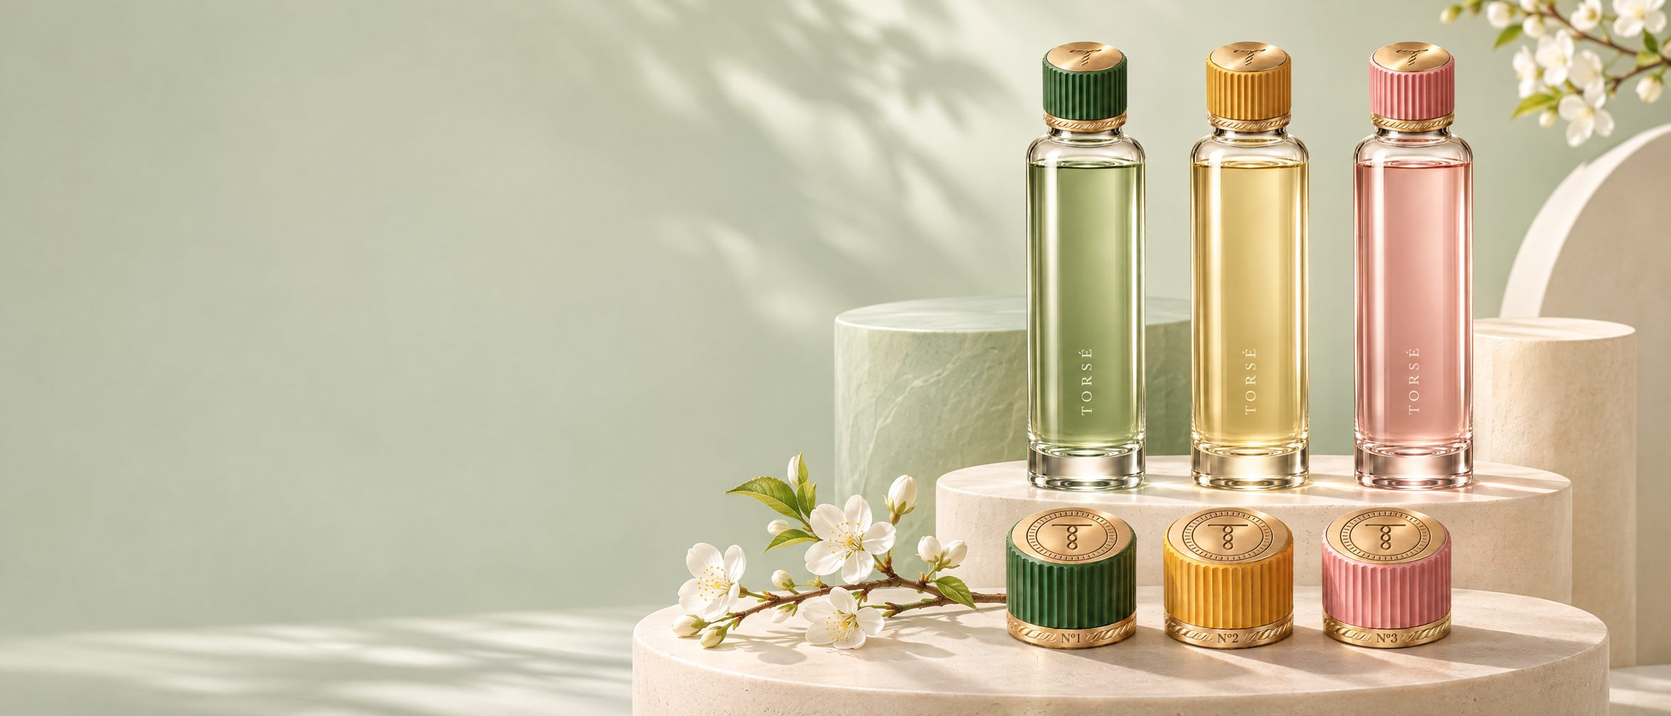
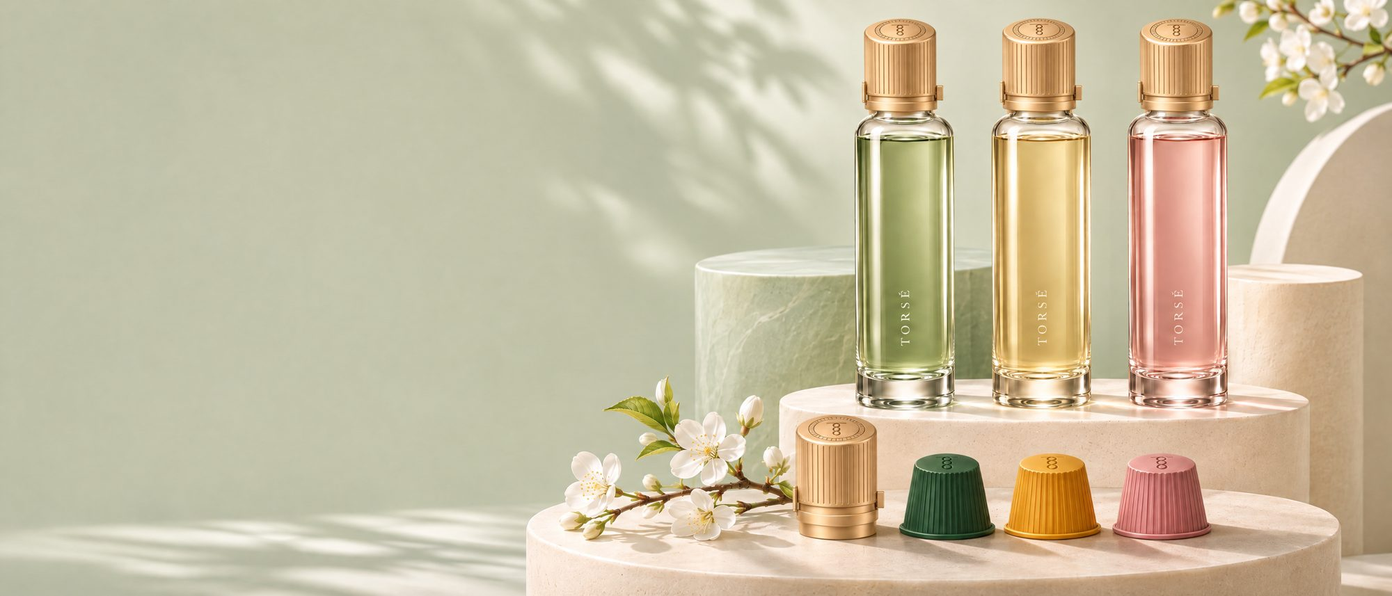
Shop auf System v5 umstellen: goldene Krone und Kapseln
Sortiment jetzt: Kapseln Standard und Large je Sorte, Krone, Set aus
Krone und Flasche, Schraubverschluss. Carrousel, Travel Clip, Flasche
einzeln und Starter Set entfernt. Neue Produkt- und Kampagnenbilder.

Claude-Session: https://claude.ai/code/session_01NizjhzH8RztRbZnBNBkn2N

diff --git a/index.html b/index.html
@@ -3,11 +3,11 @@
 <head>
 <meta charset="utf-8">
 <meta name="viewport" content="width=device-width, initial-scale=1, viewport-fit=cover">
-<meta name="description" content="TORSÉ – Kapseln mit Ceremonial-Matcha, Yuzu und Sakura für stilles Wasser. Ein Dreh. Ein Ritual.">
+<meta name="description" content="TORSÉ – goldene Krone und Kapseln mit Ceremonial-Matcha, Yuzu und Sakura für stilles Wasser. Ein Dreh. Ein Ritual.">
 <meta name="theme-color" content="#ffffff">
 <link rel="icon" href="/favicon.svg" type="image/svg+xml">
 <meta property="og:title" content="TORSÉ Boutique">
-<meta property="og:description" content="Ein Dreh. Ein Ritual. Kapseln für stilles Wasser.">
+<meta property="og:description" content="Ein Dreh. Ein Ritual. Krone und Kapseln für stilles Wasser.">
 <meta property="og:image" content="/images/hero.jpg">
 <title>TORSÉ Boutique</title>
 <link rel="preconnect" href="https://fonts.googleapis.com">
@@ -321,6 +321,7 @@ footer.site { background: var(--soft); padding-block: 64px 32px; font-size: 14px
 </style>
 </head>
 <body>
+
 <div class="demo gut">Vorschau · Demo-Shop, es werden keine echten Bestellungen ausgelöst</div>
 
 <header class="site gut">
@@ -330,7 +331,7 @@ footer.site { background: var(--soft); padding-block: 64px 32px; font-size: 14px
       <nav class="nav" aria-label="Hauptnavigation">
         <a href="#shop" data-nav="shop">Kollektion</a>
         <a href="#ritual" data-nav="ritual">Das Ritual</a>
-        <a href="#flasche" data-nav="flasche">Flasche &amp; Starter Set</a>
+        <a href="#flasche" data-nav="flasche">Krone &amp; Set</a>
         <a href="#club" data-nav="club">Club</a>
       </nav>
       <div class="hright">
@@ -341,7 +342,7 @@ footer.site { background: var(--soft); padding-block: 64px 32px; font-size: 14px
       </div>
     </div>
     <nav class="mnav" id="mnav" hidden aria-label="Mobile Navigation">
-      <a href="#shop">Kollektion</a><a href="#ritual">Das Ritual</a><a href="#flasche">Flasche &amp; Starter Set</a><a href="#club">Club</a>
+      <a href="#shop">Kollektion</a><a href="#ritual">Das Ritual</a><a href="#flasche">Krone &amp; Set</a><a href="#club">Club</a>
     </nav>
   </div>
 </header>
@@ -350,12 +351,12 @@ footer.site { background: var(--soft); padding-block: 64px 32px; font-size: 14px
 <section class="view" data-view="home">
   <div class="hero">
     <div class="hero-banner">
-      <img src="/images/hero.jpg" alt="Drei TORSÉ-Flaschen und drei Kapseln auf hellen Sockeln in Salbeigrün">
+      <img src="/images/hero.jpg" alt="Drei TORSÉ-Flaschen mit goldenen Kronen und Kapseln auf hellen Sockeln in Salbeigrün">
       <div class="hero-copy">
         <span class="label">Neu · Für stilles Wasser</span>
         <h1>Ein Dreh.<br><em>Ein Ritual.</em></h1>
-        <p>Ceremonial-Matcha, Yuzu oder Sakura in einer Kapsel aus Gold. Aufschrauben, drehen, schütteln, auf jeder Flasche stilles Wasser von 0,33 bis 0,5 l.</p>
-        <div class="ctas"><a class="btn dark" href="#shop">Kollektion entdecken</a><button class="btn line" data-open="starter">Starter Set · 39 €</button></div>
+        <p>Ceremonial-Matcha, Yuzu oder Sakura in farbigen Kapseln, dazu die goldene Krone für jede Flasche stilles Wasser von 0,33 bis 0,5 l. Einlegen, aufschrauben, drücken, schütteln.</p>
+        <div class="ctas"><a class="btn dark" href="#shop">Kollektion entdecken</a><button class="btn line" data-open="set">Krone &amp; Flasche · 89 €</button></div>
       </div>
     </div>
   </div>
@@ -363,9 +364,9 @@ footer.site { background: var(--soft); padding-block: 64px 32px; font-size: 14px
   <div class="sec gut">
     <div class="wrap">
       <div class="tiles">
-        <button class="tile t-sage" data-cat-go="kapseln"><span class="tl">Kapseln<small>Standard und Large</small></span><img src="/images/kapseln-trio.webp" alt=""></button>
-        <button class="tile t-ivory" data-cat-go="flasche"><span class="tl">Flasche &amp; Starter Set<small>500 ml Kristallglas</small></span><img src="/images/starter-set.webp" alt=""></button>
-        <button class="tile t-blush" data-cat-go="zubehoer"><span class="tl">Zubehör<small>Carrousel und Travel Clip</small></span><img src="/images/carrousel.webp" alt=""></button>
+        <button class="tile t-sage" data-cat-go="kapseln"><span class="tl">Kapseln<small>Standard und Large</small></span><img src="/images/kapseln-krone.webp" alt=""></button>
+        <button class="tile t-ivory" data-cat-go="krone"><span class="tl">Die Krone<small>Klappverschluss in Gold</small></span><img src="/images/krone.webp" alt=""></button>
+        <button class="tile t-blush" data-open="set"><span class="tl">Krone &amp; Flasche<small>Set in der Onyx-Box</small></span><img src="/images/set-krone-flasche.webp" alt=""></button>
       </div>
     </div>
   </div>
@@ -379,9 +380,9 @@ footer.site { background: var(--soft); padding-block: 64px 32px; font-size: 14px
 
   <div class="sec soft gut">
     <div class="wrap flavors">
-      <div class="fpanel"><img src="/images/kapseln-trio.webp" alt="Die drei TORSÉ-Kapseln in Jade, Yuzu-Gold und Sakura-Rosé"></div>
+      <div class="fpanel"><img src="/images/kapseln-krone.webp" alt="Die drei TORSÉ-Kapseln in Jade, Yuzu und Sakura neben der goldenen Krone"></div>
       <div>
-        <div class="sec-head"><span class="label">Die Kollektion</span><h2>Drei Sorten, drei Farben</h2><p>Jede Sorte hat ihre Farbe. Die Intensität steht auf jeder Kapsel.</p></div>
+        <div class="sec-head"><span class="label">Die Kollektion</span><h2>Drei Sorten, drei Farben</h2><p>Jede Sorte hat ihre Farbe, die ganze Kapsel ist darin bedruckt. Die Intensität steht auf jeder Box.</p></div>
         <div class="flist">
           <button class="fl" data-shopflavor="matcha"><span class="dot" style="background:var(--jade)"></span><span><span class="no">N°1 · Intensität 8</span><h3>Uji Matcha</h3><p>Ceremonial Grade aus Kyoto. Umami und frisches Gras.</p></span><span class="arrow">→</span></button>
           <button class="fl" data-shopflavor="yuzu"><span class="dot" style="background:var(--yuzu)"></span><span><span class="no">N°2 · Intensität 5</span><h3>Yuzu &amp; Ingwer</h3><p>Japanische Yuzu, ein Hauch Ingwer, ohne Zucker.</p></span><span class="arrow">→</span></button>
@@ -393,29 +394,29 @@ footer.site { background: var(--soft); padding-block: 64px 32px; font-size: 14px
 
   <div class="sec gut">
     <div class="wrap ritual">
-      <img src="/images/ritual-kaffeehaus.jpg" alt="Eine Hand dreht die TORSÉ-Kapsel auf der TORSÉ-Flasche im Wiener Kaffeehaus">
+      <img src="/images/ritual-kaffeehaus.jpg" alt="Eine Hand drückt die goldene TORSÉ-Krone auf einer Flasche Wasser im Wiener Kaffeehaus">
       <div>
         <div class="sec-head"><span class="label">Das Ritual</span><h2>Vier Bewegungen, zehn Sekunden</h2></div>
         <div class="steps">
-          <div class="step"><span class="k">I</span><b>Abziehen</b><span>Die goldene Schutzfolie abziehen.</span></div>
-          <div class="step"><span class="k">II</span><b>Aufschrauben</b><span>Auf jede Flasche stilles Wasser, 0,33 bis 0,5 l.</span></div>
-          <div class="step"><span class="k">III</span><b>Drehen</b><span>Eine Vierteldrehung öffnet das Siegel.</span></div>
+          <div class="step"><span class="k">I</span><b>Einlegen</b><span>Krone aufklappen, Kapsel mit der Folie nach oben einlegen.</span></div>
+          <div class="step"><span class="k">II</span><b>Zuklappen</b><span>Die Haube klickt ein. Dann auf jede Flasche stilles Wasser schrauben, 0,33 bis 0,5 l.</span></div>
+          <div class="step"><span class="k">III</span><b>Drücken</b><span>Mit der Handfläche auf die Krone drücken. Das Pulver fällt ins Wasser.</span></div>
           <div class="step"><span class="k">IV</span><b>Schütteln</b><span>Zehn Sekunden schütteln und genießen.</span></div>
         </div>
-        <p class="water">Nur für stilles Wasser. In Sprudel schäumt die Füllung beim Schütteln auf.</p>
+        <p class="water">Nur für stilles Wasser. In Sprudel schäumt die Füllung beim Schütteln auf. Bei offener Haube sind die Öffner gesperrt und verdeckt.</p>
       </div>
     </div>
   </div>
 
   <div class="sec gut" style="padding-top:0">
     <div class="wrap bottle-sec">
-      <div class="bpanel"><img src="/images/flasche.webp" alt="Die TORSÉ-Flasche, freigestellt"></div>
+      <div class="bpanel"><img src="/images/krone.webp" alt="Die goldene TORSÉ-Krone in der Onyx-Box, freigestellt"></div>
       <div class="bottle-copy">
-        <span class="label">Die Flasche</span>
-        <h2>Eine Säule aus Kristallglas</h2>
-        <p class="muted" style="font-size:16.5px;max-width:52ch">Schlank, gerade und schwer, wie das Mineralwasser eines Grandhotels. Der dicke Boden bricht das Licht, der Schriftzug ist eingeätzt. Jede TORSÉ-Kapsel passt darauf.</p>
-        <div class="facts"><div><b>500 ml</b><span>Inhalt</span></div><div><b>23 cm</b><span>Höhe</span></div><div><b>26/22</b><span>Gewinde</span></div></div>
-        <div class="ctas"><button class="btn dark" data-open="flasche">Flasche · 29 €</button><button class="btn line" data-open="starter">Starter Set · 39 €</button></div>
+        <span class="label">Die Krone</span>
+        <h2>Ein Verschluss aus Gold</h2>
+        <p class="muted" style="font-size:16.5px;max-width:52ch">Einmal kaufen, jahrelang benutzen. Die Krone ist aus Aluminium in Champagner-Gold, nur graviert, und passt auf jede Flasche stilles Wasser von 0,33 bis 0,5 l. Die Kapseln kaufen Sie nach.</p>
+        <div class="facts"><div><b>Ø 44 mm</b><span>Durchmesser</span></div><div><b>4,5 mm</b><span>Hub beim Drücken</span></div><div><b>26/22</b><span>Gewinde</span></div></div>
+        <div class="ctas"><button class="btn dark" data-open="krone">Krone · 69 €</button><button class="btn line" data-open="set">Mit Flasche · 89 €</button></div>
       </div>
     </div>
   </div>
@@ -426,7 +427,7 @@ footer.site { background: var(--soft); padding-block: 64px 32px; font-size: 14px
       <div class="cc">
         <span class="label">Club TORSÉ</span>
         <h2>Ihre Sorte, jeden Monat</h2>
-        <ul><li>Large-Box mit 30 Kapseln, 1,80 € pro Kapsel</li><li>Saison-Editionen vor allen anderen</li><li>Versandkostenfrei, jederzeit pausieren</li></ul>
+        <ul><li>Large-Box mit 30 Kapseln, 1,80 € pro Kapsel</li><li>Die Krone für 29 € zum Start</li><li>Versandkostenfrei, jederzeit pausieren</li></ul>
         <div class="ctas"><button class="btn dark" data-open="large-matcha">Large im Abo</button><a class="btn line" href="#club">Mehr erfahren</a></div>
       </div>
     </div>
@@ -436,7 +437,7 @@ footer.site { background: var(--soft); padding-block: 64px 32px; font-size: 14px
     <div class="wrap usps">
       <div class="usp"><b>Versandkostenfrei ab 49 €</b><span>Lieferung in 2 bis 3 Werktagen aus Wien</span></div>
       <div class="usp"><b>Passt auf 0,33–0,5 l</b><span>Stilles Wasser mit 26/22-Hals</span></div>
-      <div class="usp"><b>Hülsen zurückgeben</b><span>Club-Punkte für jede Aluminiumhülse</span></div>
+      <div class="usp"><b>Reines Aluminium</b><span>Leere Kapseln in die Metallsammlung</span></div>
       <div class="usp"><b>Sicher bezahlen</b><span>Karte, eps, PayPal, Apple Pay</span></div>
     </div>
   </div>
@@ -444,13 +445,12 @@ footer.site { background: var(--soft); padding-block: 64px 32px; font-size: 14px
 
 <section class="view gut" data-view="shop" hidden>
   <div class="wrap">
-    <div class="shop-head"><h1>Die Kollektion</h1><p class="muted" style="font-size:16.5px;max-width:62ch">Kapseln in jeder Sorte, die TORSÉ-Flasche und Zubehör. Alle Kapseln sind für stilles Wasser in Flaschen von 0,33 bis 0,5 l.</p></div>
+    <div class="shop-head"><h1>Die Kollektion</h1><p class="muted" style="font-size:16.5px;max-width:62ch">Kapseln in jeder Sorte, die goldene Krone und das Set mit der TORSÉ-Flasche. Die Kapseln legt man in die Krone, sie passt auf stilles Wasser in Flaschen von 0,33 bis 0,5 l.</p></div>
     <div class="filters" role="group" aria-label="Filter">
       <div class="grp" id="catChips">
         <button class="chip on" data-cat="all">Alle</button>
         <button class="chip" data-cat="kapseln">Kapseln</button>
-        <button class="chip" data-cat="flasche">Flasche &amp; Set</button>
-        <button class="chip" data-cat="zubehoer">Zubehör</button>
+        <button class="chip" data-cat="krone">Krone &amp; Set</button>
       </div>
       <span class="sep" aria-hidden="true"></span>
       <div class="grp" id="flavChips">
@@ -485,7 +485,7 @@ footer.site { background: var(--soft); padding-block: 64px 32px; font-size: 14px
         <div class="perks"><span>Versandkostenfrei ab 49 €</span><span>Lieferung in 2 bis 3 Werktagen</span><span>Für stilles Wasser, 0,33–0,5 l</span><span>30 Tage Rückgabe</span></div>
         <div>
           <details class="acc" open><summary>Details</summary><dl id="pDetails"></dl></details>
-          <details class="acc"><summary>Für welche Flaschen?</summary><p>Alle TORSÉ-Kapseln passen auf PET-Flaschen mit stillem Wasser von 0,33 bis 0,5 l mit dem verbreiteten 26/22-Hals, und auf die TORSÉ-Flasche. Nicht für Sprudel geeignet.</p></details>
+          <details class="acc"><summary>Für welche Flaschen?</summary><p>Die Kapseln kommen in die TORSÉ-Krone. Die Krone passt auf PET-Flaschen mit stillem Wasser von 0,33 bis 0,5 l mit dem verbreiteten 26/22-Hals und auf die TORSÉ-Flasche. Nicht für Sprudel geeignet.</p></details>
           <details class="acc"><summary>Versand &amp; Rückgabe</summary><p>Versand aus Wien innerhalb Österreichs und der EU. Ungeöffnete Ware kann 30 Tage lang zurückgegeben werden.</p></details>
         </div>
       </div>
@@ -496,13 +496,13 @@ footer.site { background: var(--soft); padding-block: 64px 32px; font-size: 14px
 <section class="view" data-view="ritual" hidden>
   <div class="sec gut">
     <div class="wrap ritual">
-      <img src="/images/kapsel-aufbau.jpg" alt="Aufbau der TORSÉ-Kapsel" style="background:var(--soft)">
+      <img src="/images/krone-aufbau.jpg" alt="Aufbau der TORSÉ-Krone mit Kapsel" style="background:var(--soft)">
       <div>
-        <div class="sec-head"><span class="label">Das Ritual</span><h2>Was in der Kapsel steckt</h2><p>Ein Deckel aus gebürstetem Aluminium mit unserem Monogramm, eine eloxierte Hülse in der Sortenfarbe und darunter eine luftdichte Kammer. Darin bleibt die Füllung frisch, bis Sie drehen.</p></div>
+        <div class="sec-head"><span class="label">Das Ritual</span><h2>Was in der Krone steckt</h2><p>Haube und Unterteil aus Aluminium in Champagner-Gold, nur graviert. Innen liegt ein Federdeckel über stumpfen Öffnern, gesperrt, solange die Haube offen ist. Die Kapsel aus reinem Aluminium bleibt luftdicht, bis Sie drücken.</p></div>
         <div class="steps">
-          <div class="step"><span class="k">I</span><b>Abziehen</b><span>Die goldene Schutzfolie abziehen.</span></div>
-          <div class="step"><span class="k">II</span><b>Aufschrauben</b><span>Auf jede Flasche stilles Wasser, 0,33 bis 0,5 l.</span></div>
-          <div class="step"><span class="k">III</span><b>Drehen</b><span>Der Schneidstern öffnet das Siegel.</span></div>
+          <div class="step"><span class="k">I</span><b>Einlegen</b><span>Krone aufklappen, Kapsel mit der Folie nach oben einlegen.</span></div>
+          <div class="step"><span class="k">II</span><b>Zuklappen</b><span>Die Haube klickt ein. Dann auf jede Flasche stilles Wasser schrauben, 0,33 bis 0,5 l.</span></div>
+          <div class="step"><span class="k">III</span><b>Drücken</b><span>Mit der Handfläche auf die Krone drücken. Das Pulver fällt ins Wasser.</span></div>
           <div class="step"><span class="k">IV</span><b>Schütteln</b><span>Zehn Sekunden schütteln und genießen.</span></div>
         </div>
         <div class="ctas" style="margin-top:28px"><a class="btn dark" href="#shop">Zur Kollektion</a></div>
@@ -511,8 +511,8 @@ footer.site { background: var(--soft); padding-block: 64px 32px; font-size: 14px
   </div>
   <div class="sec soft gut">
     <div class="wrap ritual">
-      <div class="sec-head" style="margin:0"><span class="label">Im Kaffeehaus, im Büro, unterwegs</span><h2>Überall, wo es stilles Wasser gibt</h2><p>Die Kapsel passt auf die TORSÉ-Flasche und auf die üblichen 0,33- und 0,5-l-Flaschen mit stillem Wasser. Mit dem Travel Clip haben Sie drei Kapseln immer dabei.</p><div class="ctas" style="margin-top:12px"><button class="btn dark" data-open="travel-clip">Travel Clip · 39 €</button></div></div>
-      <img src="/images/kollektion-flaschen.jpg" alt="Drei TORSÉ-Flaschen mit Wasser in Jade, Gold und Rosé" style="aspect-ratio:16/10">
+      <div class="sec-head" style="margin:0"><span class="label">Im Kaffeehaus, im Büro, unterwegs</span><h2>Überall, wo es stilles Wasser gibt</h2><p>Die Krone passt auf die TORSÉ-Flasche und auf die üblichen 0,33- und 0,5-l-Flaschen mit stillem Wasser. Krone und ein paar Kapseln passen in jede Tasche.</p><div class="ctas" style="margin-top:12px"><button class="btn dark" data-open="krone">Krone · 69 €</button></div></div>
+      <img src="/images/kollektion-flaschen.jpg" alt="Drei TORSÉ-Flaschen mit goldenen Kronen, Wasser in Jade, Gold und Rosé" style="aspect-ratio:16/10">
     </div>
   </div>
 </section>
@@ -520,25 +520,25 @@ footer.site { background: var(--soft); padding-block: 64px 32px; font-size: 14px
 <section class="view" data-view="flasche" hidden>
   <div class="sec gut">
     <div class="wrap bottle-sec">
-      <div class="bpanel"><img src="/images/flasche.webp" alt="Die TORSÉ-Flasche"></div>
+      <div class="bpanel"><img src="/images/krone.webp" alt="Die goldene TORSÉ-Krone"></div>
       <div class="bottle-copy">
-        <span class="label">Die Flasche</span>
-        <h1 style="font-size:clamp(36px,4.6vw,58px);line-height:1.04">Eine Säule aus Kristallglas</h1>
-        <p class="muted" style="font-size:16.5px;max-width:52ch">Schlank, gerade und schwer. Der dicke Boden bricht das Licht, der Schriftzug ist senkrecht eingeätzt, am Boden sitzt das Monogramm.</p>
-        <div class="facts"><div><b>500 ml</b><span>Inhalt</span></div><div><b>23 × 6,5</b><span>cm, H × Ø</span></div><div><b>26/22</b><span>passt zu jeder Kapsel</span></div></div>
-        <div class="ctas"><button class="btn dark" data-open="flasche">Flasche · 29 €</button></div>
+        <span class="label">Die Krone</span>
+        <h1 style="font-size:clamp(36px,4.6vw,58px);line-height:1.04">Der goldene Klappverschluss</h1>
+        <p class="muted" style="font-size:16.5px;max-width:52ch">Aufklappen, Kapsel einlegen, zuklappen, aufschrauben, drücken. Die Haube ist der Knopf, ein poliertes Band zeigt, ob die Kapsel schon geöffnet ist. Bei offener Haube sind die Öffner gesperrt.</p>
+        <div class="facts"><div><b>Ø 44 mm</b><span>Durchmesser</span></div><div><b>58,8 mm</b><span>Höhe</span></div><div><b>26/22</b><span>Gewinde</span></div></div>
+        <div class="ctas"><button class="btn dark" data-open="krone">Krone · 69 €</button><button class="btn line" data-open="verschluss">Schraubverschluss · 19 €</button></div>
       </div>
     </div>
   </div>
   <div class="sec soft gut">
     <div class="wrap bottle-sec" style="grid-template-columns:minmax(0,1.1fr) minmax(0,0.9fr)">
       <div class="bottle-copy">
-        <span class="label">Starter Set</span>
-        <h2>Flasche und neun Kapseln</h2>
-        <p class="muted" style="font-size:16.5px;max-width:52ch">Die TORSÉ-Flasche mit je drei Kapseln jeder Sorte, in der Onyx-Box. Der schönste Einstieg und ein Geschenk, das man nicht vergisst.</p>
-        <div class="ctas"><button class="btn dark" data-open="starter">Starter Set · 39 €</button></div>
+        <span class="label">Set</span>
+        <h2>Krone und Flasche</h2>
+        <p class="muted" style="font-size:16.5px;max-width:52ch">Die goldene Krone und die TORSÉ-Flasche, eine schlanke Säule aus dickem Glas mit eingeätztem Schriftzug, in der Onyx-Box. Die Flasche gibt es nur in diesem Set.</p>
+        <div class="ctas"><button class="btn dark" data-open="set">Set · 89 €</button></div>
       </div>
-      <div class="bpanel" style="background:var(--white);aspect-ratio:4/3"><img src="/images/starter-set.webp" alt="Starter Set"></div>
+      <div class="bpanel" style="background:var(--white);aspect-ratio:4/3"><img src="/images/set-krone-flasche.webp" alt="Set aus Krone und Flasche"></div>
     </div>
   </div>
 </section>
@@ -551,7 +551,7 @@ footer.site { background: var(--soft); padding-block: 64px 32px; font-size: 14px
         <span class="label">Club TORSÉ</span>
         <h1 style="font-size:clamp(34px,4.4vw,54px);line-height:1.04">Ihre Sorte, jeden Monat</h1>
         <p class="muted" style="font-size:16.5px">Wählen Sie Ihre Sorte, wir schicken jeden Monat eine Large-Box mit 30 Kapseln. Sie können jederzeit wechseln, pausieren oder kündigen.</p>
-        <ul><li>1,80 € pro Kapsel statt 2,20 €</li><li>Saison-Editionen vor allen anderen</li><li>Versandkostenfrei</li><li>Hülsen zurückschicken und Punkte sammeln</li></ul>
+        <ul><li>1,80 € pro Kapsel statt 2,20 €</li><li>Die Krone für 29 € zum Start</li><li>Saison-Editionen vor allen anderen</li><li>Versandkostenfrei</li></ul>
         <div class="ctas"><button class="btn dark" data-open="large-matcha">Matcha</button><button class="btn line" data-open="large-yuzu">Yuzu</button><button class="btn line" data-open="large-sakura">Sakura</button></div>
       </div>
     </div>
@@ -608,11 +608,11 @@ footer.site { background: var(--soft); padding-block: 64px 32px; font-size: 14px
     <div class="fgrid">
       <div>
         <a class="brand" href="#home"><svg class="mono" viewBox="0 0 120 120" role="img" aria-label="TORSÉ Monogramm"><g fill="none" stroke="currentColor" stroke-linecap="round"><circle cx="60" cy="60" r="57.5" stroke-width="1"/><g stroke-width="0.8"><line x1="111.00" y1="60.00" x2="115.50" y2="60.00"/><line x1="110.56" y1="66.66" x2="115.03" y2="67.24"/><line x1="109.26" y1="73.20" x2="113.61" y2="74.36"/><line x1="107.12" y1="79.52" x2="111.28" y2="81.24"/><line x1="104.17" y1="85.50" x2="108.06" y2="87.75"/><line x1="100.46" y1="91.05" x2="104.03" y2="93.79"/><line x1="96.06" y1="96.06" x2="99.24" y2="99.24"/><line x1="91.05" y1="100.46" x2="93.79" y2="104.03"/><line x1="85.50" y1="104.17" x2="87.75" y2="108.06"/><line x1="79.52" y1="107.12" x2="81.24" y2="111.28"/><line x1="73.20" y1="109.26" x2="74.36" y2="113.61"/><line x1="66.66" y1="110.56" x2="67.24" y2="115.03"/><line x1="60.00" y1="111.00" x2="60.00" y2="115.50"/><line x1="53.34" y1="110.56" x2="52.76" y2="115.03"/><line x1="46.80" y1="109.26" x2="45.64" y2="113.61"/><line x1="40.48" y1="107.12" x2="38.76" y2="111.28"/><line x1="34.50" y1="104.17" x2="32.25" y2="108.06"/><line x1="28.95" y1="100.46" x2="26.21" y2="104.03"/><line x1="23.94" y1="96.06" x2="20.76" y2="99.24"/><line x1="19.54" y1="91.05" x2="15.97" y2="93.79"/><line x1="15.83" y1="85.50" x2="11.94" y2="87.75"/><line x1="12.88" y1="79.52" x2="8.72" y2="81.24"/><line x1="10.74" y1="73.20" x2="6.39" y2="74.36"/><line x1="9.44" y1="66.66" x2="4.97" y2="67.24"/><line x1="9.00" y1="60.00" x2="4.50" y2="60.00"/><line x1="9.44" y1="53.34" x2="4.97" y2="52.76"/><line x1="10.74" y1="46.80" x2="6.39" y2="45.64"/><line x1="12.88" y1="40.48" x2="8.72" y2="38.76"/><line x1="15.83" y1="34.50" x2="11.94" y2="32.25"/><line x1="19.54" y1="28.95" x2="15.97" y2="26.21"/><line x1="23.94" y1="23.94" x2="20.76" y2="20.76"/><line x1="28.95" y1="19.54" x2="26.21" y2="15.97"/><line x1="34.50" y1="15.83" x2="32.25" y2="11.94"/><line x1="40.48" y1="12.88" x2="38.76" y2="8.72"/><line x1="46.80" y1="10.74" x2="45.64" y2="6.39"/><line x1="53.34" y1="9.44" x2="52.76" y2="4.97"/><line x1="60.00" y1="9.00" x2="60.00" y2="4.50"/><line x1="66.66" y1="9.44" x2="67.24" y2="4.97"/><line x1="73.20" y1="10.74" x2="74.36" y2="6.39"/><line x1="79.52" y1="12.88" x2="81.24" y2="8.72"/><line x1="85.50" y1="15.83" x2="87.75" y2="11.94"/><line x1="91.05" y1="19.54" x2="93.79" y2="15.97"/><line x1="96.06" y1="23.94" x2="99.24" y2="20.76"/><line x1="100.46" y1="28.95" x2="104.03" y2="26.21"/><line x1="104.17" y1="34.50" x2="108.06" y2="32.25"/><line x1="107.12" y1="40.48" x2="111.28" y2="38.76"/><line x1="109.26" y1="46.80" x2="113.61" y2="45.64"/><line x1="110.56" y1="53.34" x2="115.03" y2="52.76"/></g><circle cx="60" cy="60" r="48.5" stroke-width="0.8"/><path d="M36 40 H84" stroke-width="3.2"/><path d="M60 40 C67 46 67 52 60 58 C53 64 53 70 60 76 C67 82 67 88 60 92" stroke-width="2.4"/><path d="M60 40 C53 46 53 52 60 58 C67 64 67 70 60 76 C53 82 53 88 60 92" stroke-width="2.4"/></g></svg><span>TORSÉ</span></a>
-        <p style="margin-top:12px">Rituel de l'eau. Kapseln für stilles Wasser, gestaltet in Wien.</p>
+        <p style="margin-top:12px">Rituel de l'eau. Krone und Kapseln für stilles Wasser, gestaltet in Wien.</p>
         <form class="news" id="newsForm"><label for="n-mail" style="position:absolute;left:-9999px">E-Mail für Newsletter</label><input id="n-mail" type="email" placeholder="E-Mail für Neuigkeiten"><button type="submit">Anmelden</button></form>
       </div>
-      <div><h4>Kollektion</h4><ul><li><button data-open="standard-matcha">N°1 Uji Matcha</button></li><li><button data-open="standard-yuzu">N°2 Yuzu</button></li><li><button data-open="standard-sakura">N°3 Sakura</button></li><li><button data-open="flasche">Die Flasche</button></li></ul></div>
-      <div><h4>Entdecken</h4><ul><li><a href="#ritual">Das Ritual</a></li><li><a href="#club">Club TORSÉ</a></li><li><a href="#flasche">Starter Set</a></li></ul></div>
+      <div><h4>Kollektion</h4><ul><li><button data-open="standard-matcha">N°1 Uji Matcha</button></li><li><button data-open="standard-yuzu">N°2 Yuzu</button></li><li><button data-open="standard-sakura">N°3 Sakura</button></li><li><button data-open="krone">Die Krone</button></li></ul></div>
+      <div><h4>Entdecken</h4><ul><li><a href="#ritual">Das Ritual</a></li><li><a href="#club">Club TORSÉ</a></li><li><a href="#flasche">Krone &amp; Set</a></li></ul></div>
       <div><h4>Service</h4><ul><li><span>Versand &amp; Rückgabe</span></li><li><span>Passende Flaschen: 0,33–0,5 l, still</span></li><li><span>Boutique Wien, 1. Bezirk</span></li></ul></div>
     </div>
     <div class="fbottom"><span>© 2026 TORSÉ · Konzept und Demo-Shop</span><span>Impressum · Datenschutz · AGB</span></div>
@@ -641,7 +641,7 @@ footer.site { background: var(--soft); padding-block: 64px 32px; font-size: 14px
 </div>
 <div class="toast" id="toast" role="status" aria-live="polite"></div>
 
-<script>window.__IMG={"c_std1": "/images/standard-matcha.webp", "c_std2": "/images/standard-yuzu.webp", "c_std3": "/images/standard-sakura.webp", "c_lg1": "/images/large-matcha.webp", "c_lg2": "/images/large-yuzu.webp", "c_lg3": "/images/large-sakura.webp", "c_bottle": "/images/flasche.webp", "c_starter": "/images/starter-set.webp", "c_car": "/images/carrousel.webp", "c_clip": "/images/travel-clip.webp", "c_trio": "/images/kapseln-trio.webp", "hero": "/images/hero.jpg", "club": "/images/club.jpg", "hand": "/images/ritual-kaffeehaus.jpg", "b2": "/images/kollektion-flaschen.jpg", "exploded": "/images/kapsel-aufbau.jpg", "outer": "/images/aussenverpackung.jpg"};</script>
+<script>window.__IMG={"c_std1": "/images/standard-matcha.webp", "c_std2": "/images/standard-yuzu.webp", "c_std3": "/images/standard-sakura.webp", "c_lg1": "/images/large-matcha.webp", "c_lg2": "/images/large-yuzu.webp", "c_lg3": "/images/large-sakura.webp", "c_trio": "/images/kapseln-krone.webp", "c_crown": "/images/krone.webp", "c_set": "/images/set-krone-flasche.webp", "c_cap": "/images/schraubverschluss.webp", "hero": "/images/hero.jpg", "club": "/images/club.jpg", "hand": "/images/ritual-kaffeehaus.jpg", "b2": "/images/kollektion-flaschen.jpg", "exploded": "/images/krone-aufbau.jpg", "outer": "/images/aussenverpackung.jpg", "crownbox": "/images/krone-box.jpg", "bottlehero": "/images/flasche-mit-krone.jpg", "capscene": "/images/schraubverschluss-szene.jpg"};</script>
 <script>
 (function(){
 const A = window.__IMG;
@@ -652,18 +652,16 @@ const P = {};
 function add(id,o){P[id]=Object.assign({id},o);}
 [["matcha","c_std1","c_lg1"],["yuzu","c_std2","c_lg2"],["sakura","c_std3","c_lg3"]].forEach(([f,s,l])=>{
   add("standard-"+f,{fam:"standard",cat:"kapseln",flav:f,name:"Standard · "+FL[f].n,short:"Standard · "+FL[f].n.replace(/^N°\d /,""),sub:"10 Kapseln",price:22,per:"2,20 € pro Kapsel",img:s,gal:[s,"c_trio","hand","outer"],
-    desc:"Zehn Kapseln einer Sorte in der kompakten Box aus Recyclingkarton in der Sortenfarbe.",det:[["Inhalt","10 Kapseln, je eine Portion"],["Sorte",FL[f].n],["Passend für","stilles Wasser, 0,33–0,5 l"],["Verpackung","Klappbox, Fasergusseinlage, Goldprägung"]]});
+    desc:"Zehn Kapseln einer Sorte in der kompakten Box aus Recyclingkarton in der Sortenfarbe.",det:[["Inhalt","10 Kapseln, je eine Portion"],["Sorte",FL[f].n],["Passend für","die TORSÉ-Krone"],["Verpackung","Klappbox, Fasergusseinlage, Goldprägung"]]});
   add("large-"+f,{fam:"large",cat:"kapseln",flav:f,name:"Large · "+FL[f].n,short:"Large · "+FL[f].n.replace(/^N°\d /,""),sub:"30 Kapseln",price:54,per:"1,80 € pro Kapsel",img:l,gal:[l,"c_trio","club","outer"],badge:"Auch im Abo",
-    desc:"Dreißig Kapseln, immer eine Sorte pro Box. Passt in den Briefkasten und gibt es auch monatlich im Club.",det:[["Inhalt","30 Kapseln"],["Sorte",FL[f].n],["Passend für","stilles Wasser, 0,33–0,5 l"],["Verpackung","Klappbox, Fasergusseinlage, Goldprägung"]]});
+    desc:"Dreißig Kapseln, immer eine Sorte pro Box. Passt in den Briefkasten und gibt es auch monatlich im Club.",det:[["Inhalt","30 Kapseln"],["Sorte",FL[f].n],["Passend für","die TORSÉ-Krone"],["Verpackung","Klappbox, Fasergusseinlage, Goldprägung"]]});
 });
-add("flasche",{fam:"flasche",cat:"flasche",flav:null,name:"Die TORSÉ-Flasche",short:"Die TORSÉ-Flasche",sub:"500 ml Kristallglas",price:29,per:"",img:"c_bottle",gal:["c_bottle","hand","b2","hero"],
-  desc:"Eine schlanke, gerade Säule aus dickem Glas mit eingeätztem Schriftzug. Jede TORSÉ-Kapsel passt darauf.",det:[["Inhalt","500 ml"],["Maße","ca. 23 cm hoch, 6,5 cm Durchmesser"],["Material","Glas, spülmaschinenfest"],["Gewinde","26/22"]]});
-add("starter",{fam:"starter",cat:"flasche",flav:"all",name:"Starter Set",short:"Starter Set",sub:"Flasche und 9 Kapseln",price:39,per:"",img:"c_starter",gal:["c_starter","c_bottle","c_trio","hero"],badge:"Bestseller",
-  desc:"Die TORSÉ-Flasche und je drei Kapseln jeder Sorte in der Onyx-Box. Der schönste Einstieg in das Ritual.",det:[["Inhalt","1 Flasche, 9 Kapseln"],["Sorten","je 3 × Matcha, Yuzu, Sakura"],["Verpackung","Onyx-Klappbox mit Goldprägung"]]});
-add("carrousel",{fam:"carrousel",cat:"zubehoer",flav:null,name:"Le Carrousel",short:"Le Carrousel",sub:"Spender für 24 Kapseln",price:79,per:"",img:"c_car",gal:["c_car","c_trio"],
-  desc:"Drehbarer Spender aus Metall und Glas für Küche, Büro oder Rezeption. Wird leer geliefert.",det:[["Fasst","24 Kapseln"],["Material","Metall in Champagner, Glas"]]});
-add("travel-clip",{fam:"clip",cat:"zubehoer",flav:null,name:"Travel Clip",short:"Travel Clip",sub:"Röhre für 3 Kapseln",price:39,per:"",img:"c_clip",gal:["c_clip","c_trio"],
-  desc:"Schlanke Röhre aus Aluminium mit Karabiner. Drei Kapseln für unterwegs.",det:[["Fasst","3 Kapseln"],["Material","Aluminium, Karabiner"]]});
+add("krone",{fam:"krone",cat:"krone",flav:null,name:"Die TORSÉ-Krone",short:"Die Krone",sub:"Klappverschluss in Gold",price:69,per:"",img:"c_crown",gal:["c_crown","crownbox","hand","exploded"],badge:"Neu",
+  desc:"Der goldene Klappverschluss für jede Flasche stilles Wasser. Kapsel einlegen, zuklappen, aufschrauben, drücken. Ganz aus Aluminium in Champagner-Gold, nur graviert.",det:[["Maße","Ø 44 mm, 58,8 mm hoch"],["Material","Aluminium in Champagner-Gold, Edelstahl, Silikon"],["Passt auf","stilles Wasser 0,33–0,5 l mit Hals 26/22 und die TORSÉ-Flasche"],["Club","29 € beim Start des Club-Abos"]]});
+add("set",{fam:"set",cat:"krone",flav:null,name:"Set: Krone und Flasche",short:"Krone & Flasche",sub:"Set in der Onyx-Box",price:89,per:"",img:"c_set",gal:["c_set","bottlehero","b2","hero"],badge:"Geschenk",
+  desc:"Die goldene Krone und die TORSÉ-Flasche aus dickem Glas in der Onyx-Box. Einzeln wären es 98 €. Die Kapseln wählen Sie dazu.",det:[["Inhalt","1 Krone, 1 Flasche 500 ml"],["Flasche","ca. 22,5 cm hoch, Ø 5,8 cm, Glas, spülmaschinenfest"],["Gewinde","26/22"],["Verpackung","Onyx-Klappbox mit Goldprägung"]]});
+add("verschluss",{fam:"verschluss",cat:"krone",flav:null,name:"Schraubverschluss",short:"Schraubverschluss",sub:"für die TORSÉ-Flasche",price:19,per:"",img:"c_cap",gal:["c_cap","capscene"],
+  desc:"Ein schlichter goldener Schraubverschluss, damit Sie die TORSÉ-Flasche auch ohne Krone verschließen und mitnehmen können.",det:[["Maße","ca. Ø 30 mm, 20 mm hoch"],["Material","Aluminium in Champagner-Gold, Silikondichtung"],["Gewinde","26/22"]]});
 
 const eur = n => n.toFixed(2).replace(".",",")+" €";
 const $ = s => document.querySelector(s);
@@ -679,7 +677,7 @@ function swatches(p){
 function card(p){
   return '<div class="card"><button class="card-open" data-open="'+p.id+'"><div class="ph">'+(p.badge?'<span class="badge">'+p.badge+'</span>':'')+'<img src="'+A[p.img]+'" alt="'+p.name+'" loading="lazy"></div><div class="info"><h3>'+p.short+'</h3><span class="sub">'+p.sub+'</span>'+swatches(p)+'</div></button><div class="row"><span class="price">'+eur(p.price)+'</span><button class="plus" data-quick="'+p.id+'" aria-label="'+p.short+' in den Warenkorb">+</button></div></div>';
 }
-$("#featured").innerHTML = ["starter","standard-matcha","large-yuzu","flasche"].map(id=>card(P[id])).join("");
+$("#featured").innerHTML = ["set","standard-matcha","large-yuzu","krone"].map(id=>card(P[id])).join("");
 $("#clubGrid").innerHTML = ["large-matcha","large-yuzu","large-sakura"].map(id=>card(P[id])).join("");
 
 let fCat="all", fFlav="all";
@@ -701,7 +699,7 @@ function renderProduct(id){
   const p=P[id]; if(!p){ location.hash="shop"; return; }
   cur=p; qty=1; abo=false;
   $("#crumbName").textContent=p.short;
-  $("#pLabel").textContent = p.cat==="kapseln" ? "Kapseln · für stilles Wasser" : (p.cat==="flasche"?"Flasche & Set":"Zubehör");
+  $("#pLabel").textContent = p.cat==="kapseln" ? "Kapseln · für stilles Wasser" : "Krone & Set";
   $("#pName").textContent=p.name; $("#pDesc").textContent=p.desc; $("#pPer").textContent=p.per;
   const setMain=i=>{ const k=p.gal[i]; const m=$("#pMain"); m.src=A[k]; m.alt=p.name; m.className=isCut(k)?"cut":""; document.querySelectorAll("#pThumbs button").forEach((b,j)=>b.classList.toggle("on",j===i)); };
   $("#pThumbs").innerHTML = p.gal.map((k,i)=>'<button aria-label="Bild '+(i+1)+'"><img class="'+(isCut(k)?'cut':'')+'" src="'+A[k]+'" alt=""></button>').join("");
@@ -793,5 +791,6 @@ window.addEventListener("hashchange",route);
 renderCart(); route();
 })();
 </script>
+
 </body>
 </html>

diff --git a/README.md b/README.md
@@ -1,12 +1,13 @@
 # TORSÉ Boutique
 
-Klickbarer Demo-Webshop der Marke TORSÉ: Kapseln mit Ceremonial-Matcha, Yuzu und Sakura für stilles Wasser (0,33–0,5 l, Hals 26/22).
+Klickbarer Demo-Webshop der Marke TORSÉ: farbige Kapseln mit Ceremonial-Matcha, Yuzu und Sakura und die goldene Krone (Klappverschluss) für stilles Wasser (0,33–0,5 l, Hals 26/22).
 
 Die Seite ist rein statisch (HTML, CSS, JavaScript). Warenkorb und Kasse sind nur optisch: Es werden keine Bestellungen ausgelöst und keine Daten gesendet.
 
 ## Inhalt
 
-- `index.html`: Startseite, Kollektion, Produktseiten, Ritual, Flasche & Starter Set, Club, Warenkorb, Kasse (Navigation über `#`-Anker)
+- `index.html`: Startseite, Kollektion, Produktseiten, Ritual, Krone & Set, Club, Warenkorb, Kasse (Navigation über `#`-Anker)
+- Sortiment: Kapseln Standard (10) und Large (30) je Sorte, Krone, Set aus Krone und Flasche, Schraubverschluss
 - `images/`: freigestellte Produktbilder (`.webp`) und Kampagnenbilder (`.jpg`)
 - `favicon.svg`: TORSÉ-Monogramm
 - `vercel.json`: saubere URLs und Caching für Bilder
